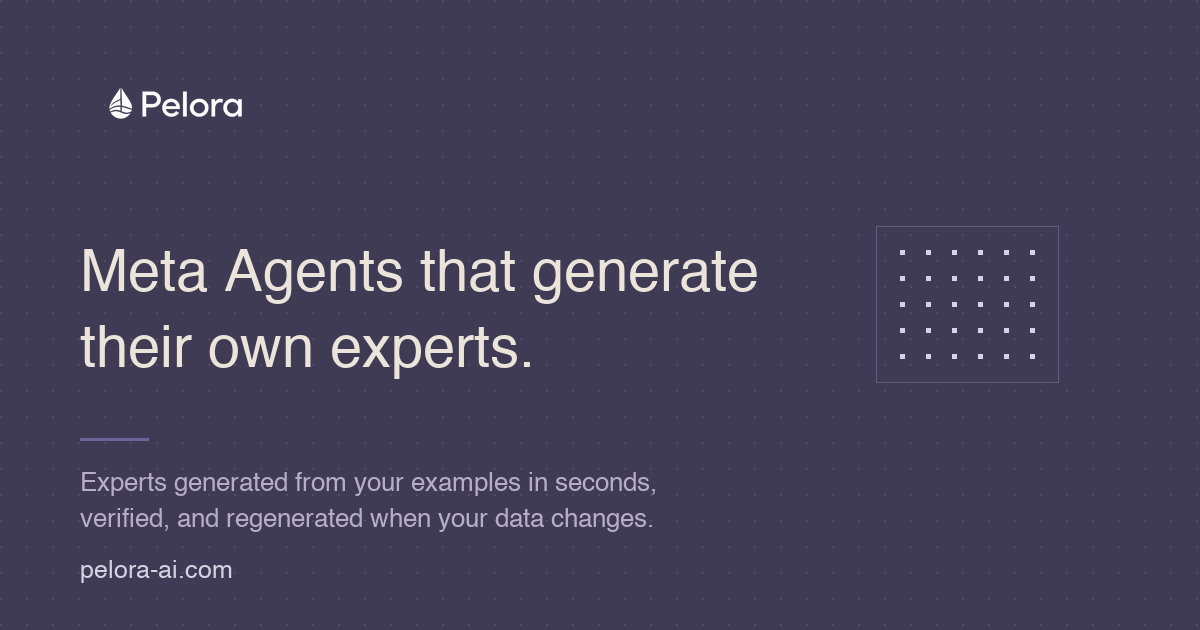
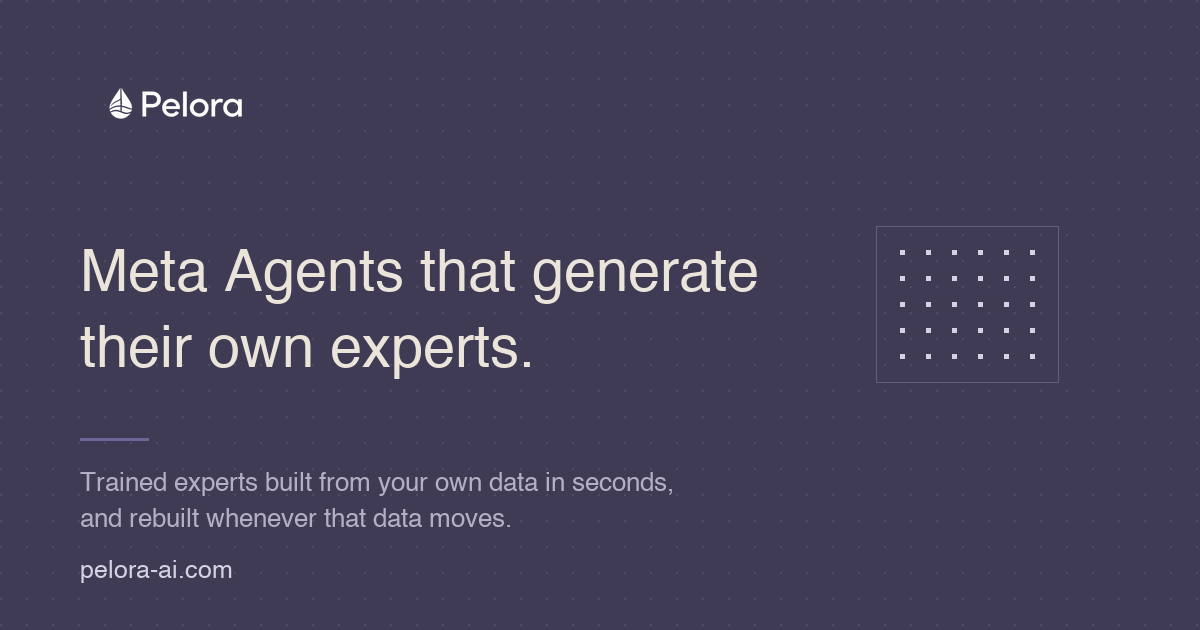
Revise copy: drop research-company framing, broaden data story, lead technology with orchestration
- Remove the "AI research company" hero eyebrow and the team headline.
- Experts are built from your data, not specifically from labeled
  examples: a labeled task, an unlabeled corpus or a body of internal
  knowledge all work. Updated across home, technology, metadata, OG card
  and the blog draft.
- Drop all "held-out performance" language. Validation is real but it
  happens behind the scenes and is not a customer-facing detail, so the
  site now says only that experts are verified before they are used.
- Technology page rebuilt around the autonomous orchestration story: the
  orchestrator notices a missing capability, commissions an expert,
  routes to it and retires it with nobody scheduling anything. Adds a
  forward-looking section on choosing each expert's architecture for
  cost and quality, clearly framed as where this goes next.

Changed region(s): [[0.0617, 0.8143, 0.555, 0.8444], [0.0617, 0.754, 0.555, 0.7841]]

diff --git a/technology/index.html b/technology/index.html
@@ -4,18 +4,18 @@
 <meta charset="UTF-8">
 <meta name="viewport" content="width=device-width, initial-scale=1">
 <title>Technology - Pelora</title>
-<meta name="description" content="How the Pelora engine generates a trained LoRA expert from labeled examples in a single forward pass, verifies it against held-out performance, and regenerates it when data drifts or the base model changes.">
+<meta name="description" content="How the Pelora orchestrator decides what its agent needs to know, commissions a trained expert for it in seconds, and keeps that expert current as your data moves.">
 <link rel="canonical" href="https://pelora-ai.com/technology/">
 
 <meta property="og:type" content="article">
 <meta property="og:site_name" content="Pelora">
 <meta property="og:url" content="https://pelora-ai.com/technology/">
 <meta property="og:title" content="Technology - Pelora">
-<meta property="og:description" content="A trained expert from labeled examples in one forward pass, verified against held-out performance, regenerated when the data moves.">
+<meta property="og:description" content="An orchestrator that decides what it needs to know and builds it. Trained experts in seconds, kept current as your data moves.">
 <meta property="og:image" content="https://pelora-ai.com/assets/og/og.png">
 <meta name="twitter:card" content="summary_large_image">
 <meta name="twitter:title" content="Technology - Pelora">
-<meta name="twitter:description" content="A trained expert from labeled examples in one forward pass, verified against held-out performance, regenerated when the data moves.">
+<meta name="twitter:description" content="An orchestrator that decides what it needs to know and builds it. Trained experts in seconds, kept current as your data moves.">
 <meta name="twitter:image" content="https://pelora-ai.com/assets/og/og.png">
 
 <link rel="icon" type="image/png" href="/imgs/logo/pelora-logo-icononly-color-zoom.png">
@@ -52,11 +52,12 @@
   <div class="wrap">
     <p class="eyebrow" data-reveal>Technology</p>
     <h1 class="statement statement--wide" data-reveal style="font-size:var(--step-4)">
-      A trained expert, generated in one pass and checked before it works.
+      The agent works out what it needs to know. Then it builds it.
     </h1>
     <p class="lede" data-reveal data-reveal-delay="80" style="margin-top:2rem">
-      Pelora's engine takes labeled examples of a task and emits a trained expert for it in a
-      single pass, in about 13 seconds. There is no training run to schedule.
+      Most agent platforms give you an orchestrator that calls models. Ours runs a factory. When a
+      job needs understanding the agent does not have, it commissions a specialist, waits about
+      13 seconds, and gets back to work.
     </p>
   </div>
 </section>
@@ -65,17 +66,18 @@
   <div class="wrap split split--sticky">
     <div>
       <p class="eyebrow" data-reveal>01</p>
-      <h2 class="statement" data-reveal>Generation, not training.</h2>
+      <h2 class="statement" data-reveal>The orchestrator runs the factory.</h2>
     </div>
     <div data-reveal data-reveal-delay="80">
       <p class="lede">
-        Conventional specialization means assembling a dataset, configuring a run, holding
-        accelerators for hours, and evaluating whatever comes out. The engine replaces that loop
-        entirely.
+        This is the part that has to be autonomous, and it is. The orchestrator recognizes when a
+        piece of work falls outside what its current experts cover, commissions one for it, routes
+        the work there, and keeps or retires it based on how it performs in production.
       </p>
       <p class="lede" style="margin-top:1.5rem">
-        It learns from your labeled examples - the inputs and the outputs you actually want. It
-        does not work from a written description of the task.
+        Nobody files a ticket. Nobody schedules a training run. The system that decides an expert
+        is needed is the same system that can produce one, which is the only reason producing them
+        on demand is worth anything.
       </p>
     </div>
   </div>
@@ -85,18 +87,21 @@
   <div class="wrap split split--sticky">
     <div>
       <p class="eyebrow" data-reveal>02</p>
-      <h2 class="statement" data-reveal>The verification gate.</h2>
+      <h2 class="statement" data-reveal>Generation, not training.</h2>
     </div>
     <div data-reveal data-reveal-delay="80">
       <p class="lede">
-        A generated expert is not trusted because it was generated. Every candidate passes a
-        selection gate that measures it against held-out performance on the same task, and only a
-        candidate that clears the gate is cached and served.
+        Conventional specialization means assembling a dataset, configuring a run, holding
+        accelerators for hours, and evaluating whatever comes out. The engine replaces that loop
+        entirely: your data goes in, a trained expert comes out, in a single pass.
       </p>
       <p class="lede" style="margin-top:1.5rem">
-        This is the closed loop that makes the approach usable in production rather than
-        interesting in a paper. An expert reaches your work only after it has been measured, so
-        specialization is something you can verify rather than something you hope for.
+        Your data can be almost anything. A labeled task, an unlabeled corpus, a body of internal
+        knowledge. It does not have to be shaped into a training set first.
+      </p>
+      <p class="lede" style="margin-top:1.5rem">
+        Experts are validated before they are used. That runs behind the scenes and you should
+        never have to think about it.
       </p>
     </div>
   </div>
@@ -114,12 +119,9 @@
         while everyone assumes it is fine.
       </p>
       <p class="lede" style="margin-top:1.5rem">
-        When generation costs seconds, the calculus inverts. An expert is regenerated when its data
-        drifts, when a policy changes, or when you move to a newer base model. Base-model migration
-        stops being a retraining program and becomes a regeneration pass over the expert cache.
-      </p>
-      <p class="lede" style="margin-top:1.5rem">
-        The engine also keeps improving with every task it learns from.
+        When generation costs seconds, the calculus inverts. An expert is rebuilt when its data
+        moves, when a policy changes, or when you adopt a newer base model. Migration stops being
+        a retraining program and becomes a pass over the expert cache.
       </p>
     </div>
   </div>
@@ -129,34 +131,55 @@
   <div class="wrap split split--sticky">
     <div>
       <p class="eyebrow" data-reveal>04</p>
-      <h2 class="statement">Inside your perimeter.</h2>
+      <h2 class="statement" data-reveal>Next: the shape of the expert, not just its weights.</h2>
     </div>
     <div data-reveal data-reveal-delay="80">
       <p class="lede">
-        Experts are generated from your data and are yours. For organizations that cannot send data
-        out - banks, security, government - generation and serving run on your own GPUs, inside
-        your own network.
+        Today the engine produces a trained expert for a task. The architecture of that expert is
+        a fixed starting point.
       </p>
       <p class="lede" style="margin-top:1.5rem">
-        The deployment story is the same one as the ownership story. Your data trains your experts,
-        the weights belong to you, and nothing has to leave.
+        Where we are taking it next is choosing that architecture per task as well - how large the
+        expert needs to be, and how it is put together, tuned to the quality the job actually
+        demands and the cost you want to pay for it. Some tasks deserve more model than others,
+        and almost nobody has the time to work out which.
       </p>
     </div>
   </div>
 </section>
 
-<section class="band band--tight">
+<section class="band">
+  <div class="wrap split split--sticky">
+    <div>
+      <p class="eyebrow" data-reveal>05</p>
+      <h2 class="statement" data-reveal>Inside your perimeter.</h2>
+    </div>
+    <div data-reveal data-reveal-delay="80">
+      <p class="lede">
+        Experts are built from your data and they are yours. For organizations that cannot send
+        data out - banks, security, government - generation and serving run on your own GPUs,
+        inside your own network.
+      </p>
+      <p class="lede" style="margin-top:1.5rem">
+        The deployment story and the ownership story are the same story. Your data, your weights,
+        nothing leaves.
+      </p>
+    </div>
+  </div>
+</section>
+
+<section class="band on-dark band--tight">
   <div class="wrap wrap--narrow">
     <p class="eyebrow" data-reveal>Depth</p>
     <h2 class="statement statement--wide" data-reveal>
       Publicly we describe the system at block-diagram level.
     </h2>
     <p class="lede" data-reveal data-reveal-delay="80" style="margin-top:1.75rem">
-      The engine internals, the conditioning stack and the verification design are available under
-      deeper diligence and NDA.
+      The engine, the orchestration policy and the validation design are available under deeper
+      diligence and NDA.
     </p>
     <div class="actions" data-reveal data-reveal-delay="140" style="margin-top:2.5rem">
-      <a class="btn btn--primary" href="mailto:info@pelora-ai.com?subject=Technical%20diligence">Start a technical conversation <span class="btn-arrow" aria-hidden="true">-&gt;</span></a>
+      <a class="btn btn--primary" href="mailto:info@pelora-ai.com?subject=Technical%20conversation">Start a technical conversation <span class="btn-arrow" aria-hidden="true">-&gt;</span></a>
       <a class="btn btn--ghost" href="/#demo">See the comparison</a>
     </div>
   </div>

diff --git a/index.html b/index.html
@@ -4,20 +4,20 @@
 <meta charset="UTF-8">
 <meta name="viewport" content="width=device-width, initial-scale=1">
 <title>Pelora - Meta Agents that generate their own experts</title>
-<meta name="description" content="Pelora's agent platform generates trained experts from your labeled examples in a single pass, verifies them against held-out data, and regenerates them when your data changes. The experts run on your infrastructure and the weights are yours.">
+<meta name="description" content="Pelora's agent platform turns your data into trained experts in a single pass, validates them before they go to work, and regenerates them when your data changes. The experts run on your infrastructure and the weights are yours.">
 <link rel="canonical" href="https://pelora-ai.com/">
 
 <meta property="og:type" content="website">
 <meta property="og:site_name" content="Pelora">
 <meta property="og:url" content="https://pelora-ai.com/">
 <meta property="og:title" content="Pelora - Meta Agents that generate their own experts">
-<meta property="og:description" content="An agent whose orchestrator trains its own experts on the fly. Generated from your examples in seconds, verified, and regenerated when your data changes.">
+<meta property="og:description" content="An agent whose orchestrator trains its own experts on the fly. Generated from your data in seconds, validated, and regenerated when your data changes.">
 <meta property="og:image" content="https://pelora-ai.com/assets/og/og.png">
 <meta property="og:image:width" content="1200">
 <meta property="og:image:height" content="630">
 <meta name="twitter:card" content="summary_large_image">
 <meta name="twitter:title" content="Pelora - Meta Agents that generate their own experts">
-<meta name="twitter:description" content="An agent whose orchestrator trains its own experts on the fly. Generated from your examples in seconds, verified, and regenerated when your data changes.">
+<meta name="twitter:description" content="An agent whose orchestrator trains its own experts on the fly. Generated from your data in seconds, validated, and regenerated when your data changes.">
 <meta name="twitter:image" content="https://pelora-ai.com/assets/og/og.png">
 
 <link rel="icon" type="image/png" href="/imgs/logo/pelora-logo-icononly-color-zoom.png">
@@ -57,11 +57,10 @@
 <section class="hero on-dark">
   <canvas class="hero-canvas" id="heroCanvas" aria-hidden="true"></canvas>
   <div class="wrap">
-    <p class="eyebrow" data-reveal>AI research company</p>
     <h1 class="hero-title" data-reveal data-reveal-delay="60">Meta Agents that generate their own experts.</h1>
     <p class="hero-sub" data-reveal data-reveal-delay="120">
       Pelora's agent turns anything it must understand into a small trained specialist - generated
-      from your examples in seconds, verified, and regenerated when your data changes. Your world
+      from your own data in seconds, validated, and regenerated when that data changes. Your world
       moves into the weights, and the weights are yours.
     </p>
     <div class="actions" data-reveal data-reveal-delay="180">
@@ -93,8 +92,8 @@
         compensate by re-reading it on every call - context, retrieval, and cost that never ends.
       </p>
       <p class="lede" style="margin-top:1.5rem">
-        The Pelora agent learns instead. Each task becomes a trained expert, created in about
-        13 seconds on a commodity GPU, checked against held-out data before it ever does the work.
+        The Pelora agent learns instead. Whatever it needs to know becomes a trained expert,
+        created in about 13 seconds on a commodity GPU and validated before it ever does the work.
       </p>
     </div>
   </div>
@@ -112,12 +111,14 @@
       <li class="step" data-reveal>
         <span class="step-num">01</span>
         <h3 class="step-title">One pass, one expert</h3>
-        <p class="step-body">Labeled examples in, a trained LoRA expert out. No training run.</p>
+        <p class="step-body">Your data in, a trained expert out. A corpus, a task, a body of
+           knowledge - it does not matter which. No training run.</p>
       </li>
       <li class="step" data-reveal data-reveal-delay="80">
         <span class="step-num">02</span>
         <h3 class="step-title">Verified, not hoped-for</h3>
-        <p class="step-body">Every generated expert passes a selection gate against held-out performance.</p>
+        <p class="step-body">No expert goes to work before it has been verified. That happens
+           behind the scenes, every time.</p>
       </li>
       <li class="step" data-reveal data-reveal-delay="160">
         <span class="step-num">03</span>
@@ -312,8 +313,7 @@
 <!-- ================================================================ team -->
 <section class="band" id="team">
   <div class="wrap">
-    <p class="eyebrow" data-reveal>Team</p>
-    <h2 class="statement" data-reveal style="margin-bottom:3.5rem">Berlin, out of Stanford, IBM and TU Berlin.</h2>
+    <p class="eyebrow" data-reveal style="margin-bottom:3.5rem">Team</p>
 
     <div class="people">
       <article class="person" data-reveal>

diff --git a/blog/every-serious-agent-company-becomes-a-model-factory/index.html b/blog/every-serious-agent-company-becomes-a-model-factory/index.html
@@ -119,17 +119,15 @@ building agents cannot hire it, and the ones that can would rather spend those r
 their actual product.</p>
 <h2>What we build</h2>
 <p>Pelora productizes the factory.</p>
-<p>Our engine is a hypernetwork. Give it labeled examples of a task - the inputs and the outputs you
-actually want - and it emits a trained LoRA expert for that task in a single forward pass. About
-13 seconds on a commodity GPU, against roughly 3 hours for the conventional fine-tuning run it
-replaces, and up to 100x cheaper. There is no training job to schedule and no accelerator fleet to
-hold.</p>
+<p>Our engine takes your data - a labeled task, an unlabeled corpus, a body of internal knowledge -
+and emits a trained expert for it in a single pass. About 13 seconds on a commodity GPU, against
+roughly 3 hours for the conventional fine-tuning run it replaces, and up to 100x cheaper. There is
+no training job to schedule and no accelerator fleet to hold.</p>
 <p>Two properties matter more than the speed.</p>
-<p>The first is verification. A generated expert is not trusted because it was generated. Every
-candidate is measured against held-out performance on its own task, and only candidates that clear
-that gate get cached and served. We have validated the engine on close to a thousand held-out
-tasks. Generated experts significantly outperform the base model, and match traditionally
-fine-tuned models at a fraction of the cost and latency.</p>
+<p>The first is that the orchestrator drives it. The system that notices a capability is missing is
+the same system that can produce one, so experts get commissioned, routed to, and retired without
+anyone filing a ticket. A factory nobody has to operate is a different product from a faster
+training run. Experts are validated before they are used, and that happens quietly.</p>
 <p>The second is what seconds do to the economics of staying current. When regeneration is cheap,
 an expert stops being an artifact you archive and becomes something you keep fresh. Data drifts,
 you regenerate. Policy changes, you regenerate. A better base model lands, and migration is a

diff --git a/assets/js/demo.js b/assets/js/demo.js
@@ -175,7 +175,7 @@
       }, 900);
 
       setTimeout(function () {
-        state.textContent = 'Verifying against held-out data';
+        state.textContent = 'Validating';
       }, 2100);
 
       // 3. fresh expert

diff --git a/posts/every-serious-agent-company-becomes-a-model-factory.md b/posts/every-serious-agent-company-becomes-a-model-factory.md
@@ -86,19 +86,17 @@ their actual product.
 
 Pelora productizes the factory.
 
-Our engine is a hypernetwork. Give it labeled examples of a task - the inputs and the outputs you
-actually want - and it emits a trained LoRA expert for that task in a single forward pass. About
-13 seconds on a commodity GPU, against roughly 3 hours for the conventional fine-tuning run it
-replaces, and up to 100x cheaper. There is no training job to schedule and no accelerator fleet to
-hold.
+Our engine takes your data - a labeled task, an unlabeled corpus, a body of internal knowledge -
+and emits a trained expert for it in a single pass. About 13 seconds on a commodity GPU, against
+roughly 3 hours for the conventional fine-tuning run it replaces, and up to 100x cheaper. There is
+no training job to schedule and no accelerator fleet to hold.
 
 Two properties matter more than the speed.
 
-The first is verification. A generated expert is not trusted because it was generated. Every
-candidate is measured against held-out performance on its own task, and only candidates that clear
-that gate get cached and served. We have validated the engine on close to a thousand held-out
-tasks. Generated experts significantly outperform the base model, and match traditionally
-fine-tuned models at a fraction of the cost and latency.
+The first is that the orchestrator drives it. The system that notices a capability is missing is
+the same system that can produce one, so experts get commissioned, routed to, and retired without
+anyone filing a ticket. A factory nobody has to operate is a different product from a faster
+training run. Experts are validated before they are used, and that happens quietly.
 
 The second is what seconds do to the economics of staying current. When regeneration is cheap,
 an expert stops being an artifact you archive and becomes something you keep fresh. Data drifts,
